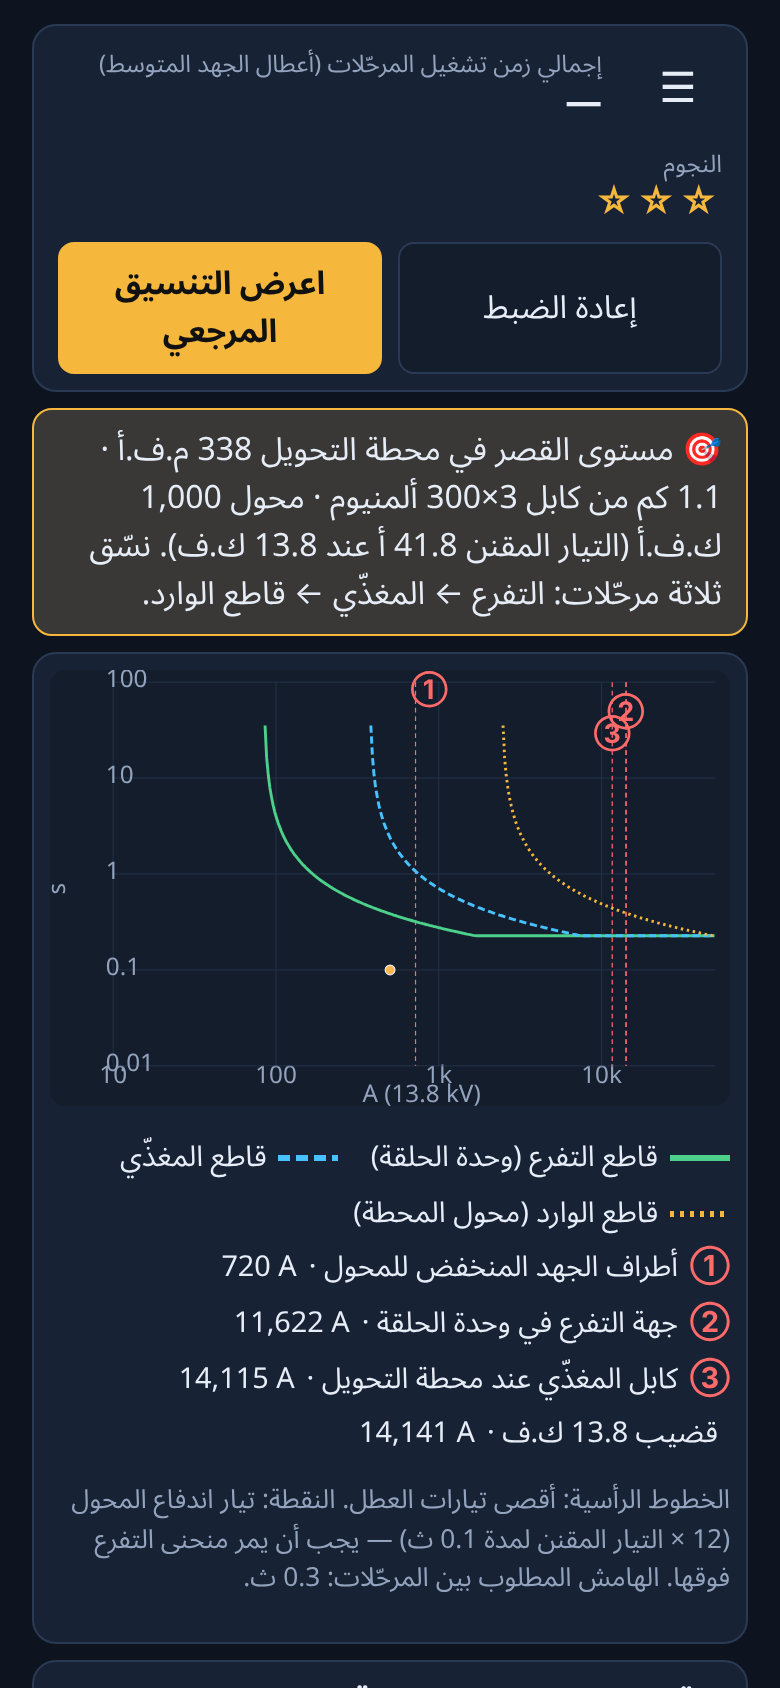
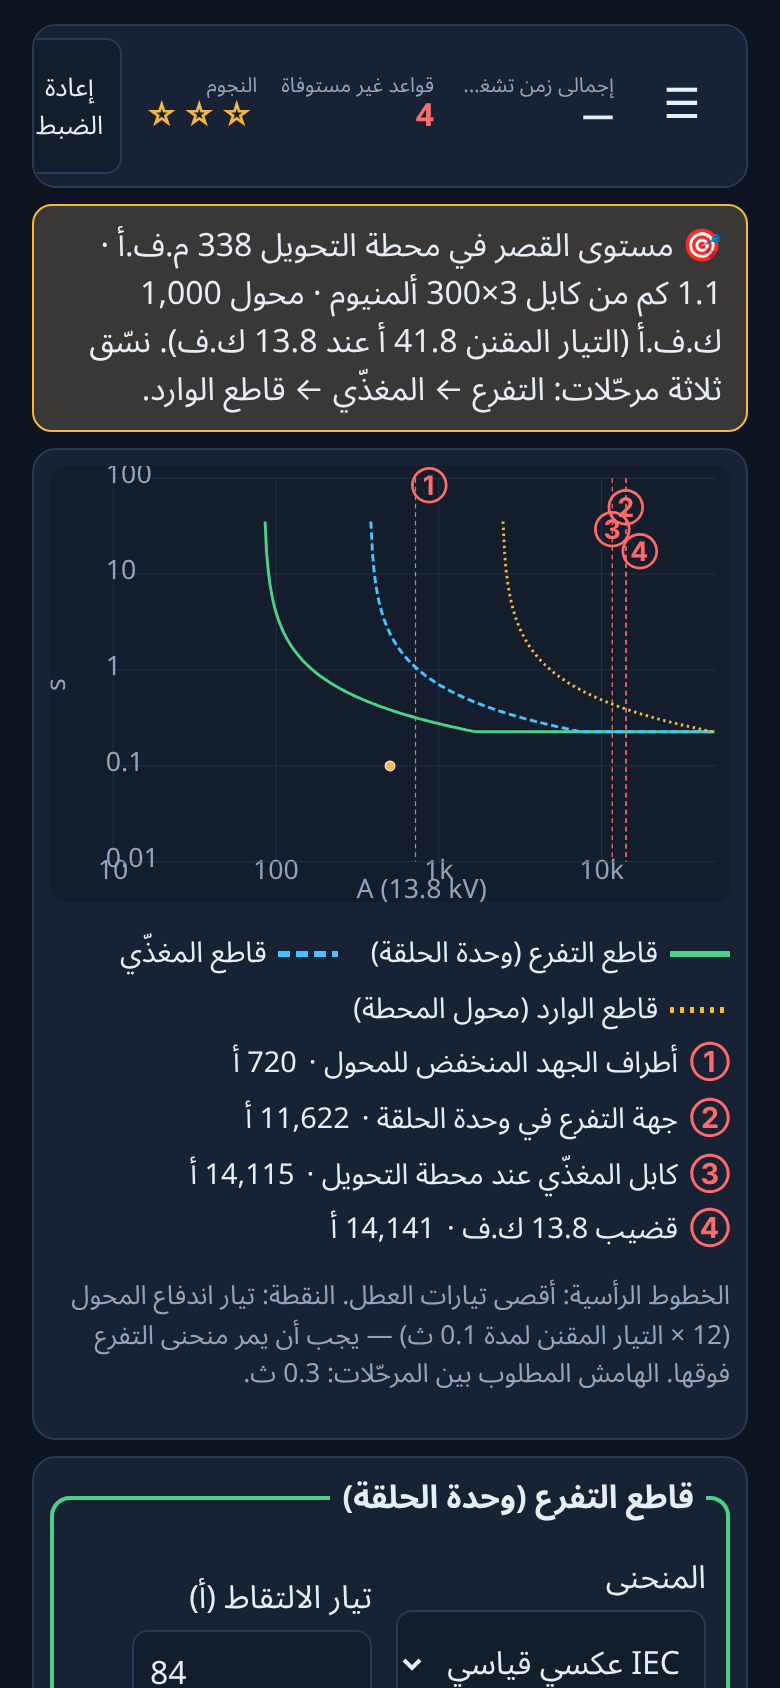
Grading phone layout (GR-07): sticky compact status with failing-rule count, Arabic units, 4 fault markers; STATUS
Claude-Session: https://claude.ai/code/session_01XPZyjLuU4kebUUFshKuEsv

diff --git a/src/ui/Grading.tsx b/src/ui/Grading.tsx
@@ -40,7 +40,8 @@ export function Grading({ seed, initial, onExit }: { seed: number; initial: stri
     <div class="grading">
       <header class="hud">
         <button class="ghost" onClick={onExit} aria-label={t('menu')}>☰</button>
-        <div class="stat"><span>{t('grScore')}</span><b>{ev.ok ? `${fmt(ev.scoreS, 3)} s` : '—'}</b></div>
+        <div class="stat"><span>{t('grScore')}</span><b>{ev.ok ? `${fmt(ev.scoreS, 3)} ${t('secUnit')}` : '—'}</b></div>
+        <a class="stat failcount" href="#grading-checks" onClick={(e) => { e.preventDefault(); document.getElementById('grading-checks')?.scrollIntoView({ behavior: 'smooth' }); }}><span>{t('grFailing')}</span><b class={ev.ok ? '' : 'warn'}>{fmt(new Set(ev.checks.filter((c) => !c.ok).map((c) => `${c.id}${c.relay}${c.caseId ?? ''}`)).size)}</b></a>
         <div class="stat"><span>{t('stars')}</span><b class="starline">{'★'.repeat(stars)}{'☆'.repeat(3 - stars)}</b></div>
         <div class="hud-actions">
           <button onClick={() => setSt(defaultSettings(g))}>{t('grReset')}</button>
@@ -53,7 +54,7 @@ export function Grading({ seed, initial, onExit }: { seed: number; initial: stri
           <Tcc g={g} st={st} par={showPar && par ? par.settings : null} />
           <ul class="tcc-legend">
             {RELAYS.map((k) => <li key={k}><svg width="30" height="10" aria-hidden="true"><line x1="0" x2="30" y1="5" y2="5" stroke={COLORS[k]} stroke-width="3" stroke-dasharray={DASH[k]} /></svg> {t(`gr_${k}`)}</li>)}
-            {g.cases.filter((c) => c.level === 'max').map((c, i) => <li key={c.id}><b class="fault-key">{'①②③'[i]}</b> {t(`grCase_${c.where}`)} · <bdi dir="ltr">{fmt(c.iA)} A</bdi></li>)}
+            {g.cases.filter((c) => c.level === 'max').map((c, i) => <li key={c.id}><b class="fault-key">{'①②③④'[i]}</b> {t(`grCase_${c.where}`)} · <bdi>{fmt(c.iA)} {t('ampUnit')}</bdi></li>)}
             {showPar && <li><svg width="30" height="10" aria-hidden="true"><line x1="0" x2="30" y1="5" y2="5" stroke="var(--muted)" stroke-width="1.5" /></svg> {t('grPar', { s: fmt(parScore, 3) })}</li>}
           </ul>
           <p class="muted small">{t('grLegend', { cti: fmt(CTI_S, 2), mult: fmt(INRUSH_MULT), ts: fmt(INRUSH_S, 2) })}</p>
@@ -84,17 +85,17 @@ export function Grading({ seed, initial, onExit }: { seed: number; initial: stri
         </aside>
       </div>
       <section class="card">
-        <h3>{t('grChecks')}</h3>
+        <h3 id="grading-checks">{t('grChecks')}</h3>
         <table class="metrics">
           <thead><tr><th>{t('grCase')}</th><th>{t('gr_T')}</th><th>{t('gr_F')}</th><th>{t('gr_I')}</th></tr></thead>
           <tbody>{g.cases.map((c) => (
-            <tr key={c.id}><th scope="row">{t(`grCase_${c.where}`)} · {t(`grLevel_${c.level}`)} · <bdi dir="ltr">{fmt(c.iA)} A</bdi></th>
+            <tr key={c.id}><th scope="row">{t(`grCase_${c.where}`)} · {t(`grLevel_${c.level}`)} · <bdi>{fmt(c.iA)} {t('ampUnit')}</bdi></th>
               {RELAYS.map((k) => { const tm = ev.times[c.id]![k]; return <td key={k} dir="ltr">{tm === undefined ? '' : Number.isFinite(tm) ? `${fmt(tm, 3)} s` : '—'}</td>; })}</tr>
           ))}</tbody>
         </table>
         <ul class="checks">{ev.checks.filter((c) => !c.ok).filter((c, i, arr) => arr.findIndex((x) => x.id === c.id && x.relay === c.relay && x.caseId === c.caseId) === i).map((c, i) => <li key={i} class="warn-text">✗ {t(`grChk_${c.id}`, { relay: t(`gr_${c.relay}`), case: c.caseId ? t(`grCase_${c.caseId.split('-')[0]}`) : '', value: c.value === undefined || !Number.isFinite(c.value) ? '∞' : fmt(c.value, 3), limit: c.limit === undefined ? '' : fmt(c.limit, 3) })}</li>)}
           {ev.ok && <li>✅ {t('grAllOk', { cti: fmt(CTI_S, 2), max: fmt(MAX_CLEAR_S) })}</li>}</ul>
-        {showPar && par && <div class="muted"><p>{t('grPar', { s: fmt(parScore, 3) })}</p><ul>{RELAYS.map((k) => <li key={k}>{t(`gr_${k}`)}: {t(`curve_${par.settings[k].curve}`)} · <bdi dir="ltr">{par.settings[k].pickupA} A · TMS {par.settings[k].tms}{par.settings[k].hsA ? ` · HS ${par.settings[k].hsA} A` : ''}</bdi></li>)}</ul></div>}
+        {showPar && par && <div class="muted"><p>{t('grPar', { s: fmt(parScore, 3) })}</p><ul>{RELAYS.map((k) => <li key={k}>{t(`gr_${k}`)}: {t(`curve_${par.settings[k].curve}`)}, <bdi>{fmt(par.settings[k].pickupA)} {t('ampUnit')}</bdi>, TMS <bdi>{fmt(par.settings[k].tms, 3)}</bdi>{par.settings[k].hsA ? <>, {t('grHighSet')} <bdi>{fmt(par.settings[k].hsA!)} {t('ampUnit')}</bdi></> : ''}</li>)}</ul></div>}
         <div class="btns"><button onClick={async () => { try { await navigator.clipboard.writeText(`⚡ ${t('title')} · ${t('grading')} #${seed} · ${'★'.repeat(stars)}${'☆'.repeat(3 - stars)} · ${ev.ok ? `${fmt(ev.scoreS, 3)} s` : '—'}\n${link}`); setCopied(true); } catch { setCopied(false); } }}>{copied ? t('copied') : t('share')}</button></div>
         <p class="ruleset-note">{t('grNote')}</p>
       </section>
@@ -124,7 +125,7 @@ function Tcc({ g, st, par }: { g: ReturnType<typeof generateGrading>; st: Settin
       {yt.map((y) => <g key={y}><line x1={L} x2={W - R} y1={ly(y)} y2={ly(y)} class="grid" /><text x={L - 6} y={ly(y) + 4} text-anchor="end" class="axis">{y}</text></g>)}
       <text x={(W + L) / 2} y={H - 4} text-anchor="middle" class="axis">A (13.8 kV)</text>
       <text x={12} y={H / 2} text-anchor="middle" class="axis" transform={`rotate(-90 12 ${H / 2})`}>s</text>
-      {g.cases.filter((c) => c.level === 'max').map((c, i) => <g key={c.id}><line x1={lx(c.iA)} x2={lx(c.iA)} y1={T} y2={H - B} class="fault" /><text x={lx(c.iA) + (i === 2 ? 4 : -4)} y={T + 14 + i * 18} class="fault-label" text-anchor={i === 2 ? 'start' : 'end'}>{'①②③'[i]}</text></g>)}
+      {g.cases.filter((c) => c.level === 'max').map((c, i) => <g key={c.id}><line x1={lx(c.iA)} x2={lx(c.iA)} y1={T} y2={H - B} class="fault" /><text x={lx(c.iA) + (i === 2 ? 4 : -4)} y={T + 14 + i * 18} class="fault-label" text-anchor={i === 2 ? 'start' : 'end'}>{'①②③④'[i]}</text></g>)}
       <circle cx={lx(INRUSH_MULT * g.inT)} cy={ly(INRUSH_S)} r={4} class="inrush"><title>{t('grInrush')}</title></circle>
       {par && RELAYS.map((k) => <path key={`p${k}`} d={path(par[k])} class="par" />)}
       {RELAYS.map((k) => <path key={k} d={path(st[k])} fill="none" stroke={COLORS[k]} stroke-width={2.4} stroke-dasharray={DASH[k]} />)}

diff --git a/src/i18n/ar.ts b/src/i18n/ar.ts
@@ -159,6 +159,7 @@ export const ar: Record<keyof typeof en, string> = {
   grNote: 'القواعد: الالتقاط أعلى من الحمل؛ الاندفاع 12 × التيار المقنن لمدة 100 م.ث (ABB)؛ هامش 0.3 ث عند كل نقطة عطل (نطاق IEEE 242 من 0.25 إلى 0.4 ث)؛ تحمّل المحول 2 ث (مواصفة الشركة السعودية للكهرباء 51-SDMS-04). افتراضات: أجهزة الجهد المنخفض تحتاج ≥ 0.4 ث؛ الضبط العالي ≥ 1.3 × أقصى عطل جهد منخفض؛ أدنى مصدر = نصف مستوى القصر؛ زمن مرحّل أدنى 40 م.ث؛ عناصر الطور فقط؛ تُهمل نسب محولات التيار وتشبعها؛ لا يُطلب من مرحّل المغذّي حماية احتياطية لأعطال الجهد المنخفض في المحولات الصغيرة. التنسيق المرجعي بحث جشع وليس الأمثل — يمكنك التفوق عليه.',
   newBadge: 'جديد',
   cond_standard: 'ليلة اعتيادية', cond_solid: 'حيّ بتأريض مباشر', cond_heat: 'حر: تربة 40 °م وعصر صيفي', cond_oneCrew: 'فرقة واحدة فقط في المناوبة', cond_comms: 'أعطال اتصال سكادا', cond_stale: 'مؤشرات قديمة لم يُعَد ضبطها', cond_digger: 'إصابة حفّارة — بلاغ ضرر',
+  ampUnit: 'أ', secUnit: 'ث', grFailing: 'قواعد غير مستوفاة',
   share: 'انسخ النتيجة', copied: 'تم النسخ!', replayLink: 'رابط الإعادة', playAgain: 'العب مجددًا', nextTraining: 'عطل التدريب التالي',
   starsRule: '★ إنهاء المناوبة بأمان · ★★ في حدود 125٪ من الاستراتيجية المرجعية · ★★★ مساوٍ لها أو أفضل',
   hint: 'تلميح',

diff --git a/src/i18n/en.ts b/src/i18n/en.ts
@@ -167,6 +167,7 @@ export const en = {
   grNote: 'Rules: pickup above load; inrush 12 × In for 100 ms (ABB); margin 0.3 s at every fault point (IEEE 242 range 0.25–0.4 s); 2 s transformer withstand (SEC 51-SDMS-04). Assumptions: LV devices need ≥ 0.4 s; high-set ≥ 1.3 × max LV fault; minimum source = half the fault level; 40 ms minimum relay time; phase elements only; CT ratios and saturation ignored; the feeder relay is not required to back up LV faults on small transformers. The reference grading is a greedy search, not an optimum — you can beat it.',
   newBadge: 'new',
   cond_standard: 'Standard night', cond_solid: 'Solidly earthed district', cond_heat: 'Heat: 40 °C ground, summer afternoon', cond_oneCrew: 'Only one crew on shift', cond_comms: 'SCADA comms trouble', cond_stale: 'Stale indicators around', cond_digger: 'Digger strike — damage report',
+  ampUnit: 'A', secUnit: 's', grFailing: 'Rules failing',
   share: 'Copy result', copied: 'Copied!', replayLink: 'Replay link', playAgain: 'Play again', nextTraining: 'Next training fault',
   starsRule: '★ shift completed safely · ★★ within 125 % of the reference strategy · ★★★ at or better than it',
   // training hints

diff --git a/src/styles.css b/src/styles.css
@@ -184,3 +184,11 @@ button:disabled { opacity: 0.5; cursor: not-allowed; }
 .fault-key { color: var(--off); }
 @media (max-width: 600px) { .tcc .axis { font-size: 16px; } }
 @media (max-width: 600px) { .tcc .axis { font-size: 20px; } .tcc .fault-label { font-size: 22px; } .grading .board { gap: 8px; } }
+.grading .hud { position: sticky; top: 0; z-index: 5; }
+.failcount { text-decoration: none; color: inherit; }
+@media (max-width: 600px) { .grading .hud-actions { width: auto; } .grading .hud { gap: 4px 12px; padding: 6px 10px; } .grading .hud .stat b { font-size: 1rem; } .tcc .axis { font-size: 22px; } }
+@media (max-width: 600px) {
+  .grading .hud { flex-wrap: nowrap; overflow-x: auto; }
+  .grading .hud .stat span { font-size: 0.65rem; max-width: 7.5em; white-space: nowrap; overflow: hidden; text-overflow: ellipsis; }
+  .grading .hud-actions button { padding: 4px 8px; font-size: 0.8rem; }
+}

diff --git a/docs/qc/REVIEW-grading.md b/docs/qc/REVIEW-grading.md
@@ -220,3 +220,48 @@ Bottom-up per-relay minimisation does not minimise the total; a player can beat 
 - The AR layout is RTL with no horizontal scroll at 390 px. Touch targets are at least 44 px.
 - The fault-current numbers are bidi-isolated in the legend and table.
 - The loop is engaging on desktop: the TCC plot and the per-relay load hints make the trade-off visible, and the starting settings fail on the incomer margin, which gives a clear first goal.
+
+## Re-verification
+
+Checked against commit `fafa8f7` (D-018). Method:
+- Engine probe over seeds 1–60.
+- Unit tests: 3/3 pass.
+- Playwright, desktop EN (seed 7) and phone AR (seed 42).
+- Screenshots: `rv-*.png` in the same scratchpad folder.
+
+- **GR-01: resolved.**
+  - New `tee-max` case (feeder vs tee-off) and `near-max` case (incomer vs feeder at busbar current).
+  - The reference grading's smallest margins over 60 seeds are now 0.3001 s and 0.3007 s (they were 0.000 s and 0.002 s).
+  - All 60 reference gradings pass, and none is missing.
+- **GR-02: resolved.**
+  - LV-terminal faults are no longer scored.
+  - The tee-off must take between 0.4 s and 2 s at LV-max. The reference gives 0.40–0.46 s.
+  - The 0.4 s value is labelled [A].
+- **GR-03: resolved.**
+  - New `hsReach` rule: the high-set must be at least 1.3 × LV-max.
+  - The overreaching high-set from the original review now fails on 60/60 seeds.
+  - The reference now uses a high-set on 26/60 seeds.
+- **GR-04: resolved.**
+  - The LV minimum is now an LV earth fault, taken as 1/√3 of the three-phase value through Dyn11, at half the source fault level.
+  - This is an approximation that treats the LV earth fault as about equal to the three-phase fault. It is labelled [D]; acceptable.
+- **GR-05: resolved.**
+  - Typing "0.1" into TMS now gives 0.1.
+  - Clearing pickup and typing 400 now gives 400.
+  - An empty high-set field reverts instead of becoming 0 A.
+  - A delay of −1 is clamped to 0.05.
+- **GR-06: partial rejection accepted.**
+  - Backup within 2 s is now enforced for MV faults.
+  - For LV faults the physical reason holds. On 500 kVA, LV-max is 427–445 A against a feeder pickup of at least 300 A. The LV-min earth fault (about 220 A) is below the feeder pickup, so the feeder relay cannot see it.
+  - Feeder backup at LV-max is feasible on some 1000/1500 kVA seeds (0.9–1.7 s) but not on all of them (up to 6.3 s, or no trip).
+  - The limitation is stated honestly in `grNote` in both languages.
+  - Optional: show the feeder backup time at LV-max as information only.
+- **GR-07: not resolved (Important, carried over).**
+  - The phone page is 3,644 px tall, with no sticky status and no `aria-live`.
+  - TCC axis labels are still about 6–7 px.
+  - New minor issue: the busbar legend row has no ④ marker on the chart.
+- **GR-08: resolved.**
+  - The Arabic incomer is now قاطع الوارد.
+  - The reference grading is a bidi-correct list ("189 A · TMS 0.15").
+  - Minor leftovers: Latin "A" instead of أ, and a doubled "· ·" in the feeder line.
+
+**Verdict: pass-after-fixes.** The engineering items GR-01 to GR-06 are closed. Before release, fix GR-07: give the phone a sticky per-relay status line and a readable chart font.

diff --git a/docs/STATUS.md b/docs/STATUS.md
@@ -17,10 +17,12 @@ Loop (Phase 4→5): v1 released on the branch (Night Shift) + **Grading mode v1.
 - Phase 1 exit: PASS — research/REVIEW-phase1.md §E.
 - Phase 3 exit: PASS — docs/design/REVIEW-phase3.md §H.
 - Release 1 physics/safety: PASS — docs/qc/REVIEW-release1-physics-safety.md (Re-verification).
+- Grading review: engineering items GR-01..06 PASS on re-verification (docs/qc/REVIEW-grading.md).
+- Daily condition-of-the-day rotation (D-017): 7 conditions, all gated solvable.
 - Release 1 playtest: pass-after-fixes → fixes applied — docs/qc/REVIEW-release1-playtest.md (Re-verification) + D-015.
 
 ## Next (priority)
-1. Independent review of Grading mode (physics + UX) and fix findings.
+1. ~~Independent review of Grading mode~~ done: docs/qc/REVIEW-grading.md — fail → fixes (D-018) → re-verification pass-after-fixes; GR-07 phone layout fixed afterwards (sticky compact status, failing-rule count, larger chart labels).
 2. Roadmap: home district & condition-of-the-day; earth-fault grading; Heatwave once LV transfer/demand response is modelled (D-016).
 
 ## Known problems / open
